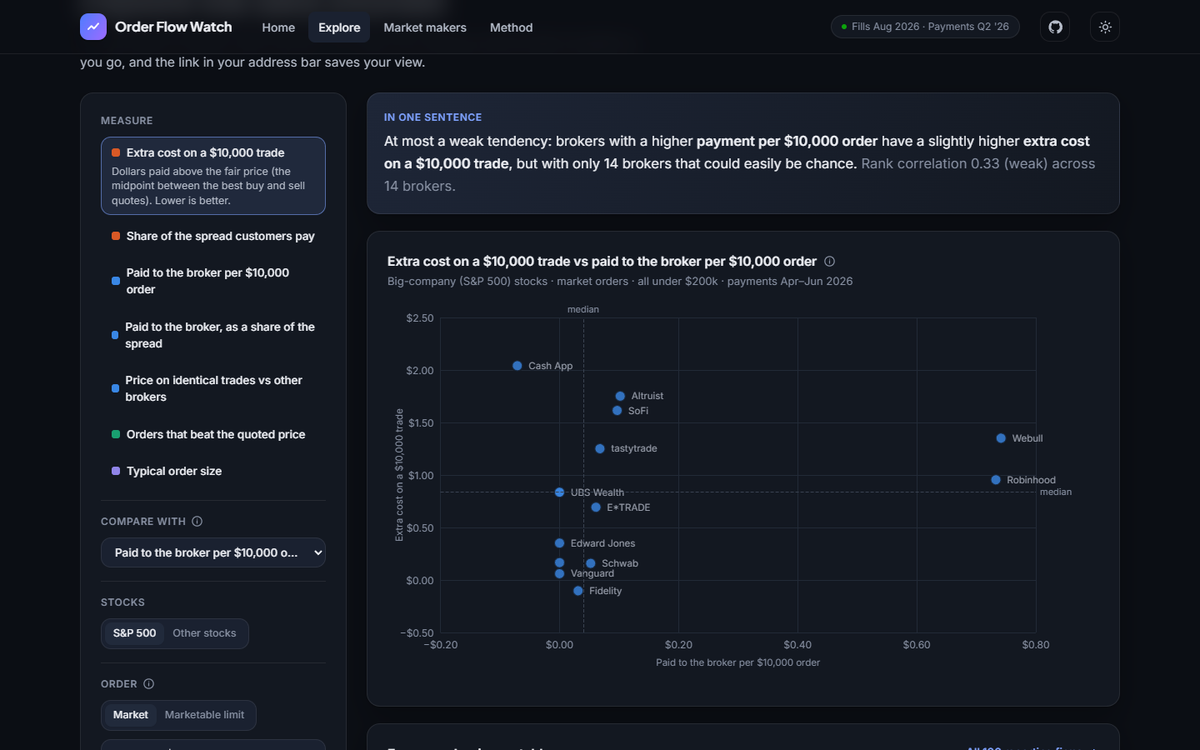
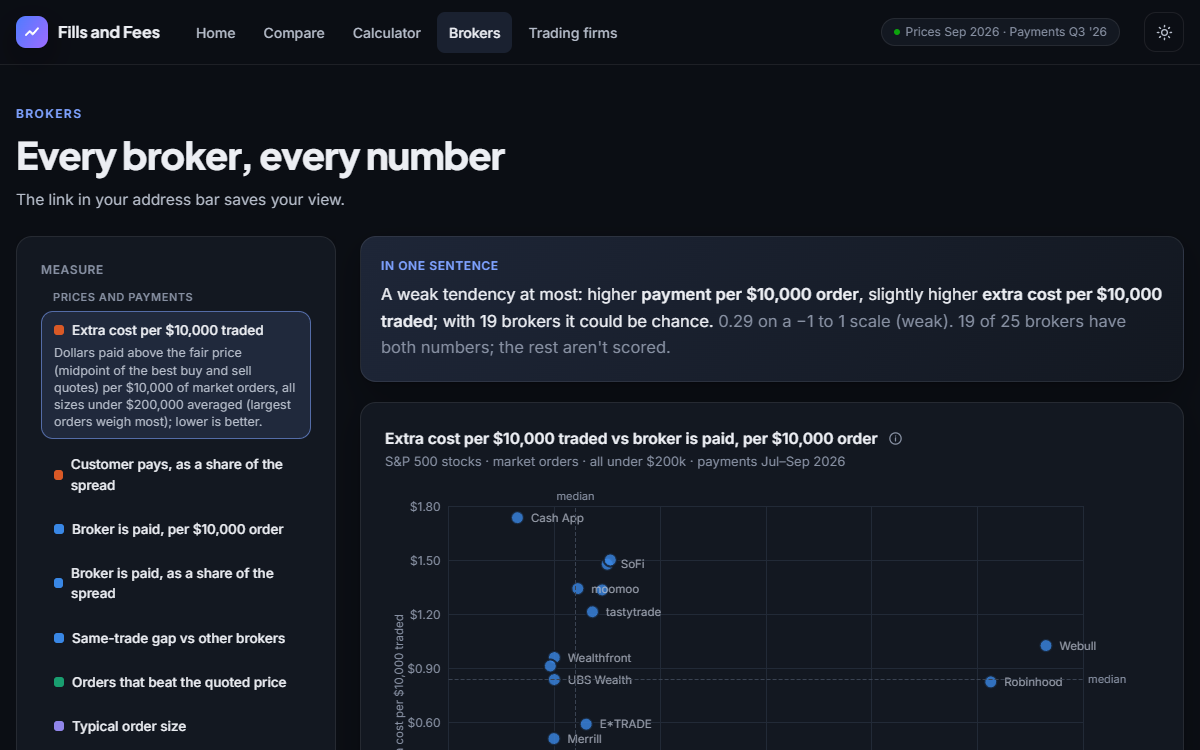
Make the site agree with what was checked: payment fallback everywhere, p-values named as such, no "identical trades"
- data.ts: pages and the explorer use the previous quarter's payment for a broker that hasn't filed the
  latest yet, as the evidence table does (Cash App and Public showed "no report of its own"; the explorer's
  matched view showed 17 brokers instead of 19). The broker page names the quarter used.
- How we measure: the column was "Chance it's random"; it is a p-value from a shuffle test.
- The matched comparison is the same stock, lot type and order size within a month, not identical trades
  (the 2025 JoF paper uses "matched trades" for literally identical orders): wording changed on every page.
- Robinhood check restated: its 606 says 12.35% of the spread; our estimate is 12-15% by month.
- README: matched-trade payment numbers and the Cash App sensitivity; the paper's 85,000 simultaneous market
  orders; no stronger claim than the data. New screenshots with the current name.

diff --git a/web/src/pages/Method.tsx b/web/src/pages/Method.tsx
@@ -15,7 +15,7 @@ import { useTheme } from "../lib/theme";
 const verdict = (e: Evidence) => (e.p >= 0.05 ? "neutral" : Math.sign(e.rho) === e.expect ? "good" : "bad") as "good" | "bad" | "neutral";
 const VERDICT = { good: "Holds up", bad: "Goes the other way", neutral: "Could be chance" };
 /** a p-value as the chance the pattern is random: 0.018 -> "2%", 0.0004 -> "<0.1%" */
-const chance = (p: number) => (p < 0.001 ? "<0.1%" : `${(p * 100).toFixed(p < 0.01 ? 1 : 0)}%`);
+const chance = (p: number) => (p < 0.001 ? "<0.001" : p.toFixed(p < 0.01 ? 3 : 2));
 /** "A, B and C" */
 const andList = (xs: string[]) => (xs.length <= 1 ? xs.join("") : `${xs.slice(0, -1).join(", ")} and ${xs[xs.length - 1]}`);
 
@@ -67,7 +67,7 @@ function questions(d: Data, x: Tests): [string, ReactNode][] {
   const gaps = rows.filter((r) => r.gap != null).sort((a, b) => a.gap! - b.gap!);
   const gapMed = median(gaps.map((r) => r.gap!)) ?? 0;
   const payMed = median(rows.filter((r) => r.pay10k != null && r.pay10k > 0.005).map((r) => r.pay10k!)) ?? 0;
-  // brokers paid nothing (or paying) that still get worse prices than most on identical trades
+  // brokers paid nothing (or paying) that still get worse prices than most on the same stocks and sizes
   const unpaid = gaps.filter((r) => r.pay10k != null && r.pay10k <= 0.005 && r.gap! > gapMed).sort((a, b) => b.gap! - a.gap!).slice(0, 2);
   const pts = (v: number) => `${signed(v, 1)} points`;
   const paidHow = (r: Metric) => (r.pay10k! < -0.005 ? "actually pays its trading firm" : "is paid nothing");
@@ -91,14 +91,14 @@ function questions(d: Data, x: Tests): [string, ReactNode][] {
   if (best) {
     const lead = best.gap == null ? null
       : gaps[0].id === best.id
-        ? <>, and it holds on identical trades ({pts(best.gap)} vs other brokers)</>
-        : <>; on identical trades it is {pts(best.gap)} ({gaps[0].f.short} leads there at {pts(gaps[0].gap!)})</>;
+        ? <>, and it holds on the same stocks and order sizes ({pts(best.gap)} vs other brokers)</>
+        : <>; on the same stocks and order sizes it is {pts(best.gap)} ({gaps[0].f.short} leads there at {pts(gaps[0].gap!)})</>;
     const pay = best.pay10k == null ? null
       : best.pay10k <= 0.005 ? <> It {paidHow(best)} for orders.</>
         : best.pay10k < payMed ? <> It is also paid less than most brokers.</> : null;
     const why: ReactNode[] = [];
-    if (unpaid.length) why.push(<span key="u">Low payment alone doesn't explain it: {andList(unpaid.map((r) => `${r.f.short} ${paidHow(r)}`))}, {unpaid.length > 1 ? "and both get" : "yet it gets"} worse prices than most on identical trades ({unpaid.map((r) => `${r.f.short} ${pts(r.gap!)}`).join(", ")}). </span>);
-    if (x.clientele) why.push(<span key="c">The strongest pattern is clientele: brokers whose customers place bigger orders get better prices even at the same order size{!x.routing && <>, and the same trading firms price each broker's orders differently</>}.</span>);
+    if (unpaid.length) why.push(<span key="u">Low payment alone doesn't explain it: {andList(unpaid.map((r) => `${r.f.short} ${paidHow(r)}`))}, {unpaid.length > 1 ? "and both get" : "yet it gets"} worse prices than most on the same stocks and order sizes ({unpaid.map((r) => `${r.f.short} ${pts(r.gap!)}`).join(", ")}). </span>);
+    if (x.clientele) why.push(<span key="c">The strongest pattern is clientele: brokers whose customers place bigger orders get better prices even at the same order size{!x.routing && <>, and the same trading firms appear to price each broker's orders differently</>}.</span>);
     items.push([`Why does ${best.f.short} look best?`, <>
       <p>{best.f.short}'s customers paid the least above the fair price per $10,000 of S&P 500 market orders{lead}.{pay}</p>
       {why.length > 0 && <p>{why}</p>}
@@ -120,7 +120,7 @@ export default function Method({ d }: { d: Data }) {
   const color = (e: Evidence) => ({ good: t.good, bad: t.critical, neutral: t.muted })[verdict(e)];
   const chart = useMemo(() => forest(t, ev.map((e) => ({
     label: e.claim, rho: e.rho, lo: e.lo, hi: e.hi, color: color(e),
-    rows: [[null, "Strength", signed(e.rho, 2)], [null, "95% interval", `${signed(e.lo, 2)} to ${signed(e.hi, 2)}`], [null, "Chance it's random", chance(e.p)], [null, "Brokers", String(e.n)], [color(e), "Verdict", VERDICT[verdict(e)]]],
+    rows: [[null, "Strength", signed(e.rho, 2)], [null, "95% interval", `${signed(e.lo, 2)} to ${signed(e.hi, 2)}`], [null, "p-value (shuffle test)", chance(e.p)], [null, "Brokers", String(e.n)], [color(e), "Verdict", VERDICT[verdict(e)]]],
   }))), [t, sp]); // eslint-disable-line react-hooks/exhaustive-deps
 
   const x = useMemo(() => tests(d), [d]);
@@ -140,7 +140,7 @@ export default function Method({ d }: { d: Data }) {
   const optShare = paid > 0 ? `about ${Math.round((100 * options) / paid)}% of` : "most of";
 
   const DEFS: [string, string][] = [
-    [METRICS.payPct.short, "What trading firms pay the broker (Rule 606, weighted by where its orders go), as a share of the quoted spread. Check: Robinhood's own report says 12.35%; ours gives 12.1–13.5%. Customer pays uses the SEC's effective/quoted ratio, which counts the distance from the midpoint twice, so the two percentages are on different scales: compare them in dollars per $10,000."],
+    [METRICS.payPct.short, "What trading firms pay the broker (Rule 606, weighted by where its orders go), as a share of the quoted spread. Check: Robinhood's own report says 12.35% of the spread in regular hours (9% after hours); our estimate is 12–15%, depending on which month's spreads it is divided by. Customer pays uses the SEC's effective/quoted ratio, which counts the distance from the midpoint twice, so the two percentages are on different scales: compare them in dollars per $10,000."],
     [METRICS.speed.label, `Rule 605's average time from order to fill, in ${unit} (the unit the SEC's report specification sets). Shown, never scored${x.slower ? ": here slower fills went with better prices" : ""}.`],
   ];
 
@@ -178,7 +178,7 @@ export default function Method({ d }: { d: Data }) {
         <Card title="Same stocks, same order sizes">
           <div className={BODY}>
             <p>Averages flatter brokers whose customers trade big, liquid stocks in large orders.</p>
-            <p>So each broker is also scored against the others on market orders in the same stock, lot type and order size: the “{METRICS.gap.short.toLowerCase()}”, below zero = better on identical trades.{!x.routing && <> The gaps persist with the same trading firms filling the orders: they price each broker's flow differently.</>}</p>
+            <p>So each broker is also scored against the others on market orders in the same stock, lot type and order size: the “{METRICS.gap.short.toLowerCase()}”, below zero = better than other brokers on the same stocks and order sizes.{!x.routing && <> The gaps persist with the same trading firms filling the orders, which suggests they price each broker's flow differently.</>}</p>
           </div>
         </Card>
       </div>
@@ -243,7 +243,7 @@ export default function Method({ d }: { d: Data }) {
             <table className="w-full text-[13.5px]">
               <thead><tr className="border-b border-line text-left text-ink2">
                 <th scope="col" className="py-2 pr-3 font-semibold">Claim</th><th scope="col" className="px-3 py-2 text-right font-semibold">Strength (−1 to 1)</th>
-                <th scope="col" className="hidden px-3 py-2 text-right font-semibold sm:table-cell">Chance it's random</th><th scope="col" className="hidden px-3 py-2 text-right font-semibold sm:table-cell">Brokers</th><th scope="col" className="py-2 pl-3 font-semibold">Verdict</th>
+                <th scope="col" className="hidden px-3 py-2 text-right font-semibold sm:table-cell">p-value</th><th scope="col" className="hidden px-3 py-2 text-right font-semibold sm:table-cell">Brokers</th><th scope="col" className="py-2 pl-3 font-semibold">Verdict</th>
               </tr></thead>
               <tbody>{ev.map((e) => (
                 <tr key={e.claim} className="border-b border-line last:border-0">

diff --git a/web/src/lib/data.ts b/web/src/lib/data.ts
@@ -145,12 +145,14 @@ export interface Filters { sp: Sp; ot: Ot; b: number; month: string; quarter: st
 export interface Metric {
   f: Firm; id: string; name: string;
   payPct: number | null; cph: number | null; cust: number | null;
+  /** the quarter the payment comes from (the one before the selected quarter when the broker has not filed it yet) */
+  payQ: string | null;
   pi: number | null; aq: number | null; sz: number | null; px: number | null; t: number | null; qsBps: number | null;
   /** $ the customer pays above the midpoint on a $10,000 trade */
   cost10k: number | null;
   /** $ the broker is paid for routing a $10,000 order: cph is cents per 100 shares, so cph/1e4 per share × 1e4/price shares */
   pay10k: number | null;
-  /** points of the spread vs other brokers on identical stock × size cells (market orders, all sizes) */
+  /** points of the spread vs other brokers on the same stock × lot × size cells (market orders, all sizes) */
   gap: number | null;
   /** average time to fill in milliseconds (meta.timeUnit); the same value as t */
   speedMs: number | null;
@@ -161,7 +163,13 @@ export interface Metric {
 export function metric(d: Data, f: Firm, s: Filters): Metric {
   const e = d.exec.get(execKey(f.id, s.month, s.sp, s.ot, s.b));
   const base = d.exec.get(execKey(f.id, s.month, s.sp, s.ot, 199999));
-  const p = f.crd ? d.pay.get(`${f.crd}|${s.quarter}|${s.sp}`) : undefined;
+  // the selected quarter's payment; on the latest quarter, the one before for a broker that has not filed it yet
+  // (build_site.py does the same for the evidence table, so every page agrees)
+  const payAt = (q: string | undefined) => (f.crd && q ? d.pay.get(`${f.crd}|${q}|${s.sp}`) : undefined);
+  const prevQ = d.meta.quarters[d.meta.quarters.indexOf(s.quarter) - 1];
+  const own = payAt(s.quarter);
+  const p = own ?? (s.quarter === d.meta.quarter ? payAt(prevQ) : undefined);
+  const payQ = own ? s.quarter : p ? prevQ : null;
   const cph = p ? p[s.ot] : null;
   const payPct = cph != null && base?.px && base?.qs ? cph / base.px / base.qs / 100 : null;
   const pct = (v: number | null | undefined) => (v == null ? null : v * 100);
@@ -169,7 +177,7 @@ export function metric(d: Data, f: Firm, s: Filters): Metric {
   const cust = pct(e?.efq);
   const fee: Fee | undefined = d.fees[f.id];
   return {
-    f, id: f.id, name: nameOf(f), payPct, cph, cust,
+    f, id: f.id, name: nameOf(f), payPct, cph, payQ, cust,
     pi: pct(e?.pi), aq: pct(e?.aq), sz: e?.sz ?? null, px: e?.px ?? null, t: e?.t ?? null, qsBps,
     cost10k: cust != null && qsBps != null ? (cust / 100) * (qsBps / 2) : null,
     pay10k: cph != null && base?.px ? cph / base.px : null,

diff --git a/web/src/pages/MarketMakers.tsx b/web/src/pages/MarketMakers.tsx
@@ -16,7 +16,7 @@ export default function MarketMakers({ d, f, set }: { d: Data; f: Filters; set: 
   const [metric, setMetric] = useState<"share" | "pay">("share");
   const mmName = Object.fromEntries(d.marketMakers.map((m) => [m.id, m.name]));
 
-  // price quality on identical trades
+  // price quality on the same stock x lot x size cells
   const gaps = d.sameStock.marketMakers.filter((g) => g.sp === f.sp).sort((a, b) => a.gap - b.gap);
   const missing = d.marketMakers.filter((m) => !gaps.some((g) => g.id === m.id));
   const gapChart = useMemo(() => divergingBars(t, gaps.map((g) => ({
@@ -71,7 +71,7 @@ export default function MarketMakers({ d, f, set }: { d: Data; f: Filters; set: 
 
       <section className="grid grid-cols-1 gap-4 sm:grid-cols-3">
         <Kpi icon="coins" label="Trading firms used" value={tot.size} sub={`by brokers here, ${quarterLong(f.quarter)}`} />
-        <Kpi icon="layers" label="Trading firms compared" value={gaps.length} sub={`on identical ${SP_LABEL[f.sp]} trades, ${monthLong(d.meta.detailMonth)}`} />
+        <Kpi icon="layers" label="Trading firms compared" value={gaps.length} sub={`on the same ${SP_LABEL[f.sp]} stocks and sizes, ${monthLong(d.meta.detailMonth)}`} />
         <Kpi icon="chart" label={`Biggest by volume, ${lastQ ? quarterShort(lastQ) : ""}`} value={leadShare != null ? pct(leadShare, 0) : "–"}
           sub={lead ? `${trim(lead)}'s off-exchange share` : undefined} />
       </section>
@@ -93,7 +93,7 @@ export default function MarketMakers({ d, f, set }: { d: Data; f: Filters; set: 
       <div className="mt-5 grid grid-cols-1 gap-5 lg:grid-cols-2">
         <Card title="Price quality on the same stocks" sub={`${SP_LABEL[f.sp]} · market orders · points of the spread vs other firms`}
           info="A trading firm's score mixes its own pricing with the brokers that send it orders.">
-          {gaps.length ? <EChart option={gapChart} height={Math.max(260, gaps.length * 40 + 40)} label="Price quality on identical trades" /> : <Empty>No reports this month.</Empty>}
+          {gaps.length ? <EChart option={gapChart} height={Math.max(260, gaps.length * 40 + 40)} label="Price quality on the same stocks and order sizes" /> : <Empty>No reports this month.</Empty>}
         </Card>
         <Card title="Share of off-exchange stock trading" sub="FINRA volume data · full quarters">
           {qs.length ? <EChart option={otcChart} height={Math.max(260, gaps.length * 40 + 40)} label="Off-exchange share by quarter" /> : <Empty>No FINRA data.</Empty>}

diff --git a/web/src/pages/Home.tsx b/web/src/pages/Home.tsx
@@ -97,9 +97,9 @@ export default function Home({ d }: { d: Data }) {
     : me.pay10k < -0.005 ? `Pays its trading firm about ${usd2(-me.pay10k)} for that order.`
     : "Not paid for orders.";
   const gapLine = !me || me.gap == null ? "No same-trade comparison available."
-    : me.gap < -3 ? "Better prices than most brokers on identical trades."
-    : me.gap > 3 ? "Worse prices than most brokers on identical trades."
-    : "About average on identical trades.";
+    : me.gap < -3 ? "Better prices than most brokers on the same stocks and order sizes."
+    : me.gap > 3 ? "Worse prices than most brokers on the same stocks and order sizes."
+    : "About average on the same stocks and order sizes.";
   // fee facts checked by hand on the broker's own pages (fees.csv); each line only shows when the fact is verified
   const fee: Fee | undefined = me ? d.fees[me.id] : undefined;
   const cashLine = fee?.cashYield == null ? null
@@ -274,7 +274,7 @@ export default function Home({ d }: { d: Data }) {
                 : <>{topPaid.map((r) => r.f.short).join(" and ")} are paid the most, but payment only weakly predicts what customers pay.</>,
               `${pagePath("brokers")}?m=cost10k&vs=pay10k`, "See payment vs price"],
             ["scale", "Same stock, very different price",
-              <>Same trading firms, yet {gaps[0]?.f.short} customers get the best prices and {gaps[gaps.length - 1]?.f.short} the worst on identical trades.</>,
+              <>Same trading firms, yet {gaps[0]?.f.short} customers get the best prices and {gaps[gaps.length - 1]?.f.short} the worst on the same stocks and order sizes.</>,
               `${pagePath("brokers")}?m=gap`, "See every broker"],
             ["layers", "Most of the money is in options",
               <>{optPct}% of the {dollars(paid)} paid in {quarterLong(lastQ)} was for options, which the price reports don't cover.</>,

diff --git a/web/src/pages/BrokerProfile.tsx b/web/src/pages/BrokerProfile.tsx
@@ -110,9 +110,9 @@ export default function BrokerProfile({ d, f, set, id }: { d: Data; f: Filters; 
       </p>
       <section className="grid grid-cols-2 gap-4 sm:grid-cols-3 xl:grid-cols-6">
         <Kpi label={METRICS.cust.short} info={METRICS.cust.desc} value={pct(r.cust, 0)} sub={rank ? `of the spread · #${rank} lowest of ${all.length}` : "of the spread"} />
-        <Kpi label={METRICS.payPct.short} info={METRICS.payPct.desc} value={pct(r.payPct, 1)} sub={r.cph != null ? `${cents(r.cph)} per 100 shares` : has606 ? "not in this quarter's report" : "no payment report"} />
+        <Kpi label={METRICS.payPct.short} info={METRICS.payPct.desc} value={pct(r.payPct, 1)} sub={r.cph != null ? `${cents(r.cph)} per 100 shares${r.payQ && r.payQ !== f.quarter ? ` (${quarterLong(r.payQ)}, latest filed)` : ""}` : has606 ? "not in this quarter's report" : "no payment report"} />
         <Kpi label={METRICS.gap.short} info={METRICS.gap.desc} value={gap ? signed(gap.gap, 1) : "–"} tone={gap ? (gap.gap < 0 ? "good" : "bad") : undefined}
-          sub={gap ? `points vs other brokers, identical trades` : "no detailed data"} />
+          sub={gap ? `points vs other brokers, same stocks and sizes` : "no detailed data"} />
         <Kpi label={METRICS.cost10k.short} info={METRICS.cost10k.desc} value={usd2(r.cost10k)} sub="above the fair price" />
         <Kpi label={METRICS.sz.short} info={METRICS.sz.desc} value={r.sz == null ? "–" : `$${num(r.sz)}`} sub={r.pi != null ? `${pct(r.pi, 0)} of orders beat the quoted price` : undefined} />
         <Kpi label={METRICS.speed.short} info={METRICS.speed.desc} value={time(r.t)} sub={r.t != null && medSpeed != null ? `typical broker ${time(medSpeed)}` : "no timing data"} />

diff --git a/web/src/pages/Compare.tsx b/web/src/pages/Compare.tsx
@@ -55,15 +55,15 @@ function Verdict({ f, A, B, rA, rB, feeA, feeB }: { f: Filters; A: Firm; B: Firm
     const cv = diff > 0 ? rB.cost10k! : rA.cost10k!, dv = diff > 0 ? rA.cost10k! : rB.cost10k!;
     price.push(<>Per $10,000 of {order}s in {stocks}, <strong className="font-semibold text-ink">{cheap.short} customers pay about {usd2(Math.abs(diff))} less</strong> than {dear.short} customers: {fair(cv)} against {fair(dv)}.</>);
   }
-  // 2. does it hold on identical trades? (same stocks, same order sizes)
+  // 2. does it hold on the same stocks and order sizes?
   if (rA.gap != null && rB.gap != null) {
-    const g = rA.gap - rB.gap; // > 0: B gets the better price on identical trades
-    if (Math.abs(g) < 1) price.push(<> On identical trades the two are level.</>);
+    const g = rA.gap - rB.gap; // > 0: B gets the better price on the same stocks and sizes
+    if (Math.abs(g) < 1) price.push(<> On the same stocks and order sizes the two are level.</>);
     else {
       const same = g > 0 ? B : A;
       price.push(cheap == null || same.id === cheap.id
-        ? <> That holds on identical trades too.</>
-        : <> On identical trades, though, {same.short} comes out ahead: part of the gap is what each broker's customers trade.</>);
+        ? <> That holds on the same stocks and order sizes too.</>
+        : <> On the same stocks and order sizes, though, {same.short} comes out ahead: part of the gap is what each broker's customers trade.</>);
     }
   }
 

diff --git a/web/src/lib/metrics.ts b/web/src/lib/metrics.ts
@@ -49,7 +49,7 @@ export const METRICS: Record<MetricKey, MetricDef> = {
   },
   gap: {
     label: "Same-trade gap vs other brokers", noun: "same-trade gap", short: "Same-trade gap",
-    desc: "Points of the spread on identical stocks and order sizes; below zero = better than other brokers.",
+    desc: "Points of the spread vs other brokers on the same stocks and order sizes; below zero = better.",
     better: "low", source: "measured", get: (r) => r.gap, fmt: (v) => signed(v, 1), axis: (v) => `${v > 0 ? "+" : ""}${v}`, slot: 0, diverging: true,
   },
   // no "better" direction: Webull price-improves 94% of orders yet its customers still pay about half the spread

diff --git a/web/src/lib/routes.ts b/web/src/lib/routes.ts
@@ -173,7 +173,7 @@ export function describeRoute(data: Data | Raw, path: string, search: string): {
       break;
     case "trading-firms":
       text = "Which trading firms handle retail orders, and how good their prices are";
-      description = "Which trading firms fill each broker's orders (Citadel, Virtu, Jane Street and others) and how good their prices are on identical trades.";
+      description = "Which trading firms fill each broker's orders (Citadel, Virtu, Jane Street and others) and how good their prices are on the same stocks and order sizes.";
       break;
     case "how-we-measure":
       text = "How we measure brokers";

diff --git a/README.md b/README.md
@@ -50,30 +50,34 @@ and 8 market makers (Citadel, Virtu, GTS, G1, Jane Street, HRT, Two Sigma, Jump)
   the spread a broker is paid and the share its customers pay: +0.32 (S&P 500, p = 0.19) and +0.57 (other
   stocks, p = 0.01). Holding the share price customers trade equal, neither is statistically significant
   (+0.22 / +0.41, p = 0.38 / 0.10): the brokers paid most have customers in cheap, wide-spread stocks. The
-  other-stocks link weakens but does not vanish, so treat it as unresolved rather than ruled out. An early 8-broker version showed ~0.87;
-  that was small-sample luck.
-- **Broker differences are real on identical stocks.** Comparing brokers on the same stock × lot size × order
+  other-stocks link weakens but does not vanish, so treat it as unresolved rather than ruled out. On the same stock ×
+  lot size × order size cells (the comparison below), payment vs the same-stock gap is +0.25 (S&P 500, p = 0.30) and
+  +0.43 (other stocks, p = 0.07) across 19 brokers; without Cash App, the most influential broker (it pays its
+  wholesaler rather than being paid), +0.47 (p = 0.05) and +0.63 (p < 0.01). Full table: the statistics card at the
+  bottom of fillsandfees.com/how-we-measure/. An early 8-broker version showed ~0.87; that was small-sample luck.
+- **Broker differences are real on the same stocks.** Comparing brokers on the same stock × lot size × order
   size (detailed 605 reports): Fidelity's customers pay 15 points of the spread less than peers; Cash App's,
   eToro's, moomoo's and Coinbase's about 45 points more, and Interactive Brokers' 25 points more.
 - **Routing doesn't explain it.** A broker's mix of market makers predicts almost none of its same-stock
   gap (−0.06 on S&P 500 stocks). The same market makers fill different brokers' customers at very different prices.
 - **Clientele does.** Brokers whose customers make bigger trades get better prices on the same stocks
   (−0.65 / −0.68, p ≤ 0.001).
-- **Market makers differ too.** On identical S&P 500 trades Citadel fills 23 points of the spread better than
+- **Market makers differ too.** On the same S&P 500 stocks and order sizes Citadel fills 23 points of the spread better than
   the other market makers; Jump's retail desk 32 points worse.
 - **Most of the money is in options** (~70% of payments), which Rule 605 doesn't cover. Payments to the
   tracked brokers grew from $0.6B (2024Q2) to $1.5B a quarter (2026Q2 and Q3).
 
 ## Conclusion
 
-Brokers that are paid more for their customers' orders don't give measurably worse prices. They look worse at
+Brokers that are paid more for their customers' orders don't give reliably worse prices. They look worse at
 first only because their customers trade cheap, wide-spread stocks; compared on similarly priced stocks, the link
-weakens below statistical significance (for stocks outside the S&P 500 a weaker link may remain). Brokers still differ a lot on identical trades, and the size of their customers' orders explains that
+weakens below statistical significance (for stocks outside the S&P 500 a weaker link may remain). Brokers still differ a lot on the same stocks and order sizes, and the size of their customers' orders explains that
 far better than payment does.
 
 This agrees with [Schwarz, Barber, Huang, Jorion & Odean (2025)](https://papers.ssrn.com/abstract=4189239), who
-placed 85,000 test trades and reached the same answer. They also found that the disclosure rules of the time
-couldn't show this. The broker-level Rule 605 reports required since August 2026 can.
+placed 85,000 simultaneous market orders at five brokers and reached the same answer. They also called for more
+informative disclosure of execution quality; the broker-level Rule 605 reports required since August 2026 make this
+comparison possible from public data.
 
 ## How it works
 

diff --git a/CLAUDE.md b/CLAUDE.md
@@ -151,7 +151,17 @@ No pandas by design: analysis is in SQL.
   +0.55 (other, p 0.02); at equal share price +0.18 / +0.37 (p 0.48 / 0.14); clientele −0.65 / −0.68 (p ≤ 0.001). Same picture
   as August (Webull improved most, 49.7 → 44.9% of spread). IBKR (IBBD, Interactive Brokers LLC, all its retail flow): 31.6% of the
   spread on S&P market orders, +25pt vs peers on identical trades, Robinhood-like.
-- Validation: Robinhood's 606 states it is paid 12.35% of the spread; the pipeline reproduces 12.1-13.5%.
+- Validation: Robinhood's 606 (2026Q2 and Q3 alike) states it is paid 12.35% of the spread in regular hours, 9% extended;
+  the pipeline's estimate is 12.1-15.5% depending on which month's 605 price and spread divide the quarter's cents per
+  100 shares (Q2 cph / Aug spreads 12.1 S&P; Q3 cph / Sep spreads 15.5): a period-mismatch approximation, not exact.
+- **Email to Schwarz checked (4 Nov 2026), Sept fills, Q3 payments with Q2 fallback:** payment vs SAME-STOCK gap +0.25
+  (p 0.30) / +0.43 (p 0.07), n 19; without Cash App (most influential: negative payment, worst S&P gap) +0.47 (p 0.05) /
+  +0.63 (p 0.006); Q2-only +0.37 / +0.40; Q3-only (n 17) +0.43 / +0.63. Clientele -0.65 / -0.68 (1M perms p 0.0006 /
+  0.0003), negative in every size bucket, survives Bonferroni and holding payment fixed; open confound = order handling
+  (holding avg execution time equal: -0.34 p 0.10 / -0.41 p 0.04). August is similar (payment +0.23 / +0.44 n 18,
+  clientele -0.61 / -0.68 n 24). The paper (JF 80(5) 2025, 2507-41) uses 85,000 simultaneous market orders and calls
+  discarded trades "test trades"; its "matched trades" are literally identical orders, so the site says "same stocks and
+  order sizes", never "identical trades". Co-author Jorion died 21 Jul 2025.
 - Finding names for 605 reporter codes: FINRA's broker-dealer directory
   finra.org/filing-reporting/regulation-nms/sec-rule-605-reports/167516 (paginated, ?page=N).
   606 `broker` name field is sometimes just a code (WLTH, ALTU), so `--find` by name can miss firms;
